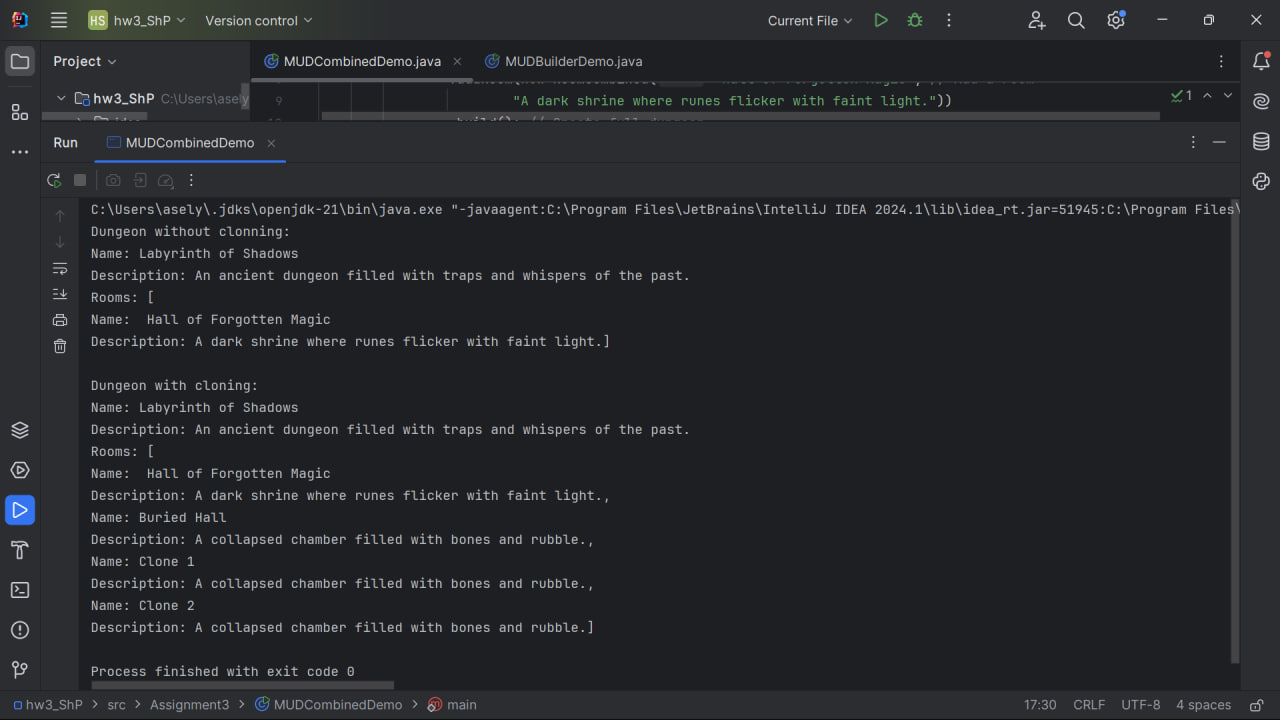
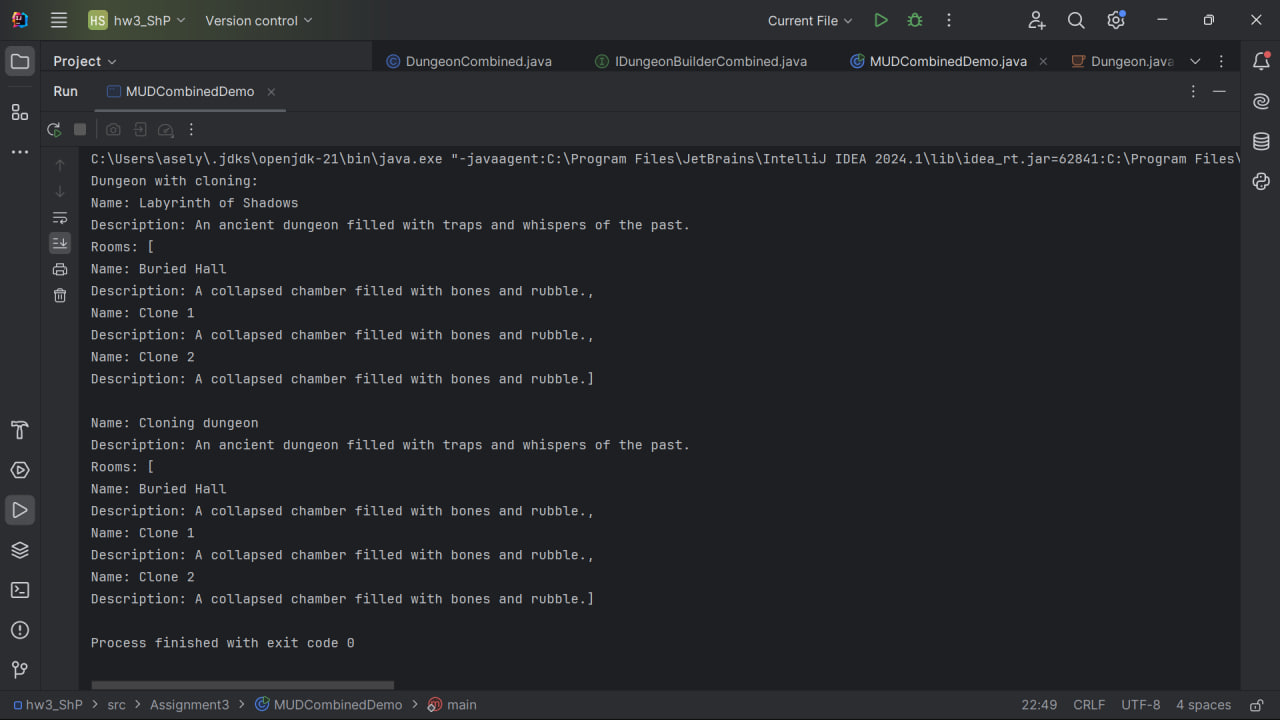
Save local changing

diff --git a/Assignment3/MUDCombinedDemo.java b/Assignment3/MUDCombinedDemo.java
@@ -2,23 +2,24 @@ package Assignment3;
 
 public class MUDCombinedDemo {
     public static void main(String[] args) {
-        DungeonCombined dungeon =new SimpleDungeonBuilderCombined() // Create empty dungeon
+        RoomCombined original = new RoomCombined("Buried Hall", // Create original room
+                "A collapsed chamber filled with bones and rubble.");
+        IDungeonBuilderCombined builder = new SimpleDungeonBuilderCombined() // Create builder for dungeon
                 .setName("Labyrinth of Shadows") // Set a name
                 .setDescription("An ancient dungeon filled with traps and whispers of the past.") // Set a description
-                .addRoom(new RoomCombined(" Hall of Forgotten Magic", // Add a room
-                        "A dark shrine where runes flicker with faint light."))
-                .build(); // Create full dungeon
-        System.out.println("Dungeon without clonning: \n" + dungeon);
+                .addRoom(original);
+
+        for (int i = 1; i < 3; i++) {
+            RoomCombined clone = original.cloneObject(); // Cloned room
+            clone.setName("Clone " + i); // Change name
+            builder.addRoom(clone); // Add cloned room to dungeon
+        }
+        DungeonCombined dungeon = builder.build(); // Create full dungeon
+        System.out.println("Dungeon with cloning: \n" + dungeon);
         System.out.println();
 
-        RoomCombined original = new RoomCombined("Buried Hall", // Original room
-                "A collapsed chamber filled with bones and rubble.");
-        dungeon.addRoom(original);
-        for (int i = 1; i < 3; i++) {
-            RoomCombined clone = (RoomCombined) original.cloneRoom(); // Cloned room
-            clone.setName("Clone " + i); // Change name
-            dungeon.addRoom(clone); // Add cloned room to dungeon
-        }
-        System.out.println("Dungeon with cloning: \n" + dungeon);
+        DungeonCombined cloneDungeon = dungeon.cloneObject(); // Cloning dungeon
+        cloneDungeon.setName("Cloning dungeon");
+        System.out.println(cloneDungeon);
     }
 }

diff --git a/Assignment3/DungeonCombined.java b/Assignment3/DungeonCombined.java
@@ -3,7 +3,7 @@ package Assignment3;
 import java.util.ArrayList;
 import java.util.List;
 
-public class DungeonCombined {
+public class DungeonCombined implements CloneableRoom{
 
     private String name;
     private String description;
@@ -19,6 +19,21 @@ public class DungeonCombined {
     public DungeonCombined addRoom(RoomCombined room) { // Add room which we clone
         rooms.add(room);
         return this;
+    }
+
+    @Override
+    public DungeonCombined cloneObject() {
+        return new DungeonCombined(name, description, rooms);
+    }
+
+    @Override
+    public String getName() {
+        return name;
+    }
+
+    @Override
+    public void setName(String name) {
+        this.name = name;
     }
 
     public String toString() {

diff --git a/Assignment3/RoomCombined.java b/Assignment3/RoomCombined.java
@@ -12,10 +12,16 @@ public class RoomCombined implements CloneableRoom {
     }
 
     @Override
-    public CloneableRoom cloneRoom() { // Realized to cloned object
+    public RoomCombined cloneObject() { // Realized to cloned object
         return new RoomCombined(name, description);
     }
 
+    @Override
+    public String getName() {
+        return name;
+    }
+
+    @Override
     public void setName(String name) { // Set name to clones
         this.name = name;
     }

diff --git a/Assignment3/CloneableRoom.java b/Assignment3/CloneableRoom.java
@@ -2,5 +2,9 @@ package Assignment3;
 
 public interface CloneableRoom {
 
-    public CloneableRoom cloneRoom(); // Method which clone room
+    public CloneableRoom cloneObject(); // Method which clone room
+
+    public String getName();
+
+    public void setName(String name);
 }
